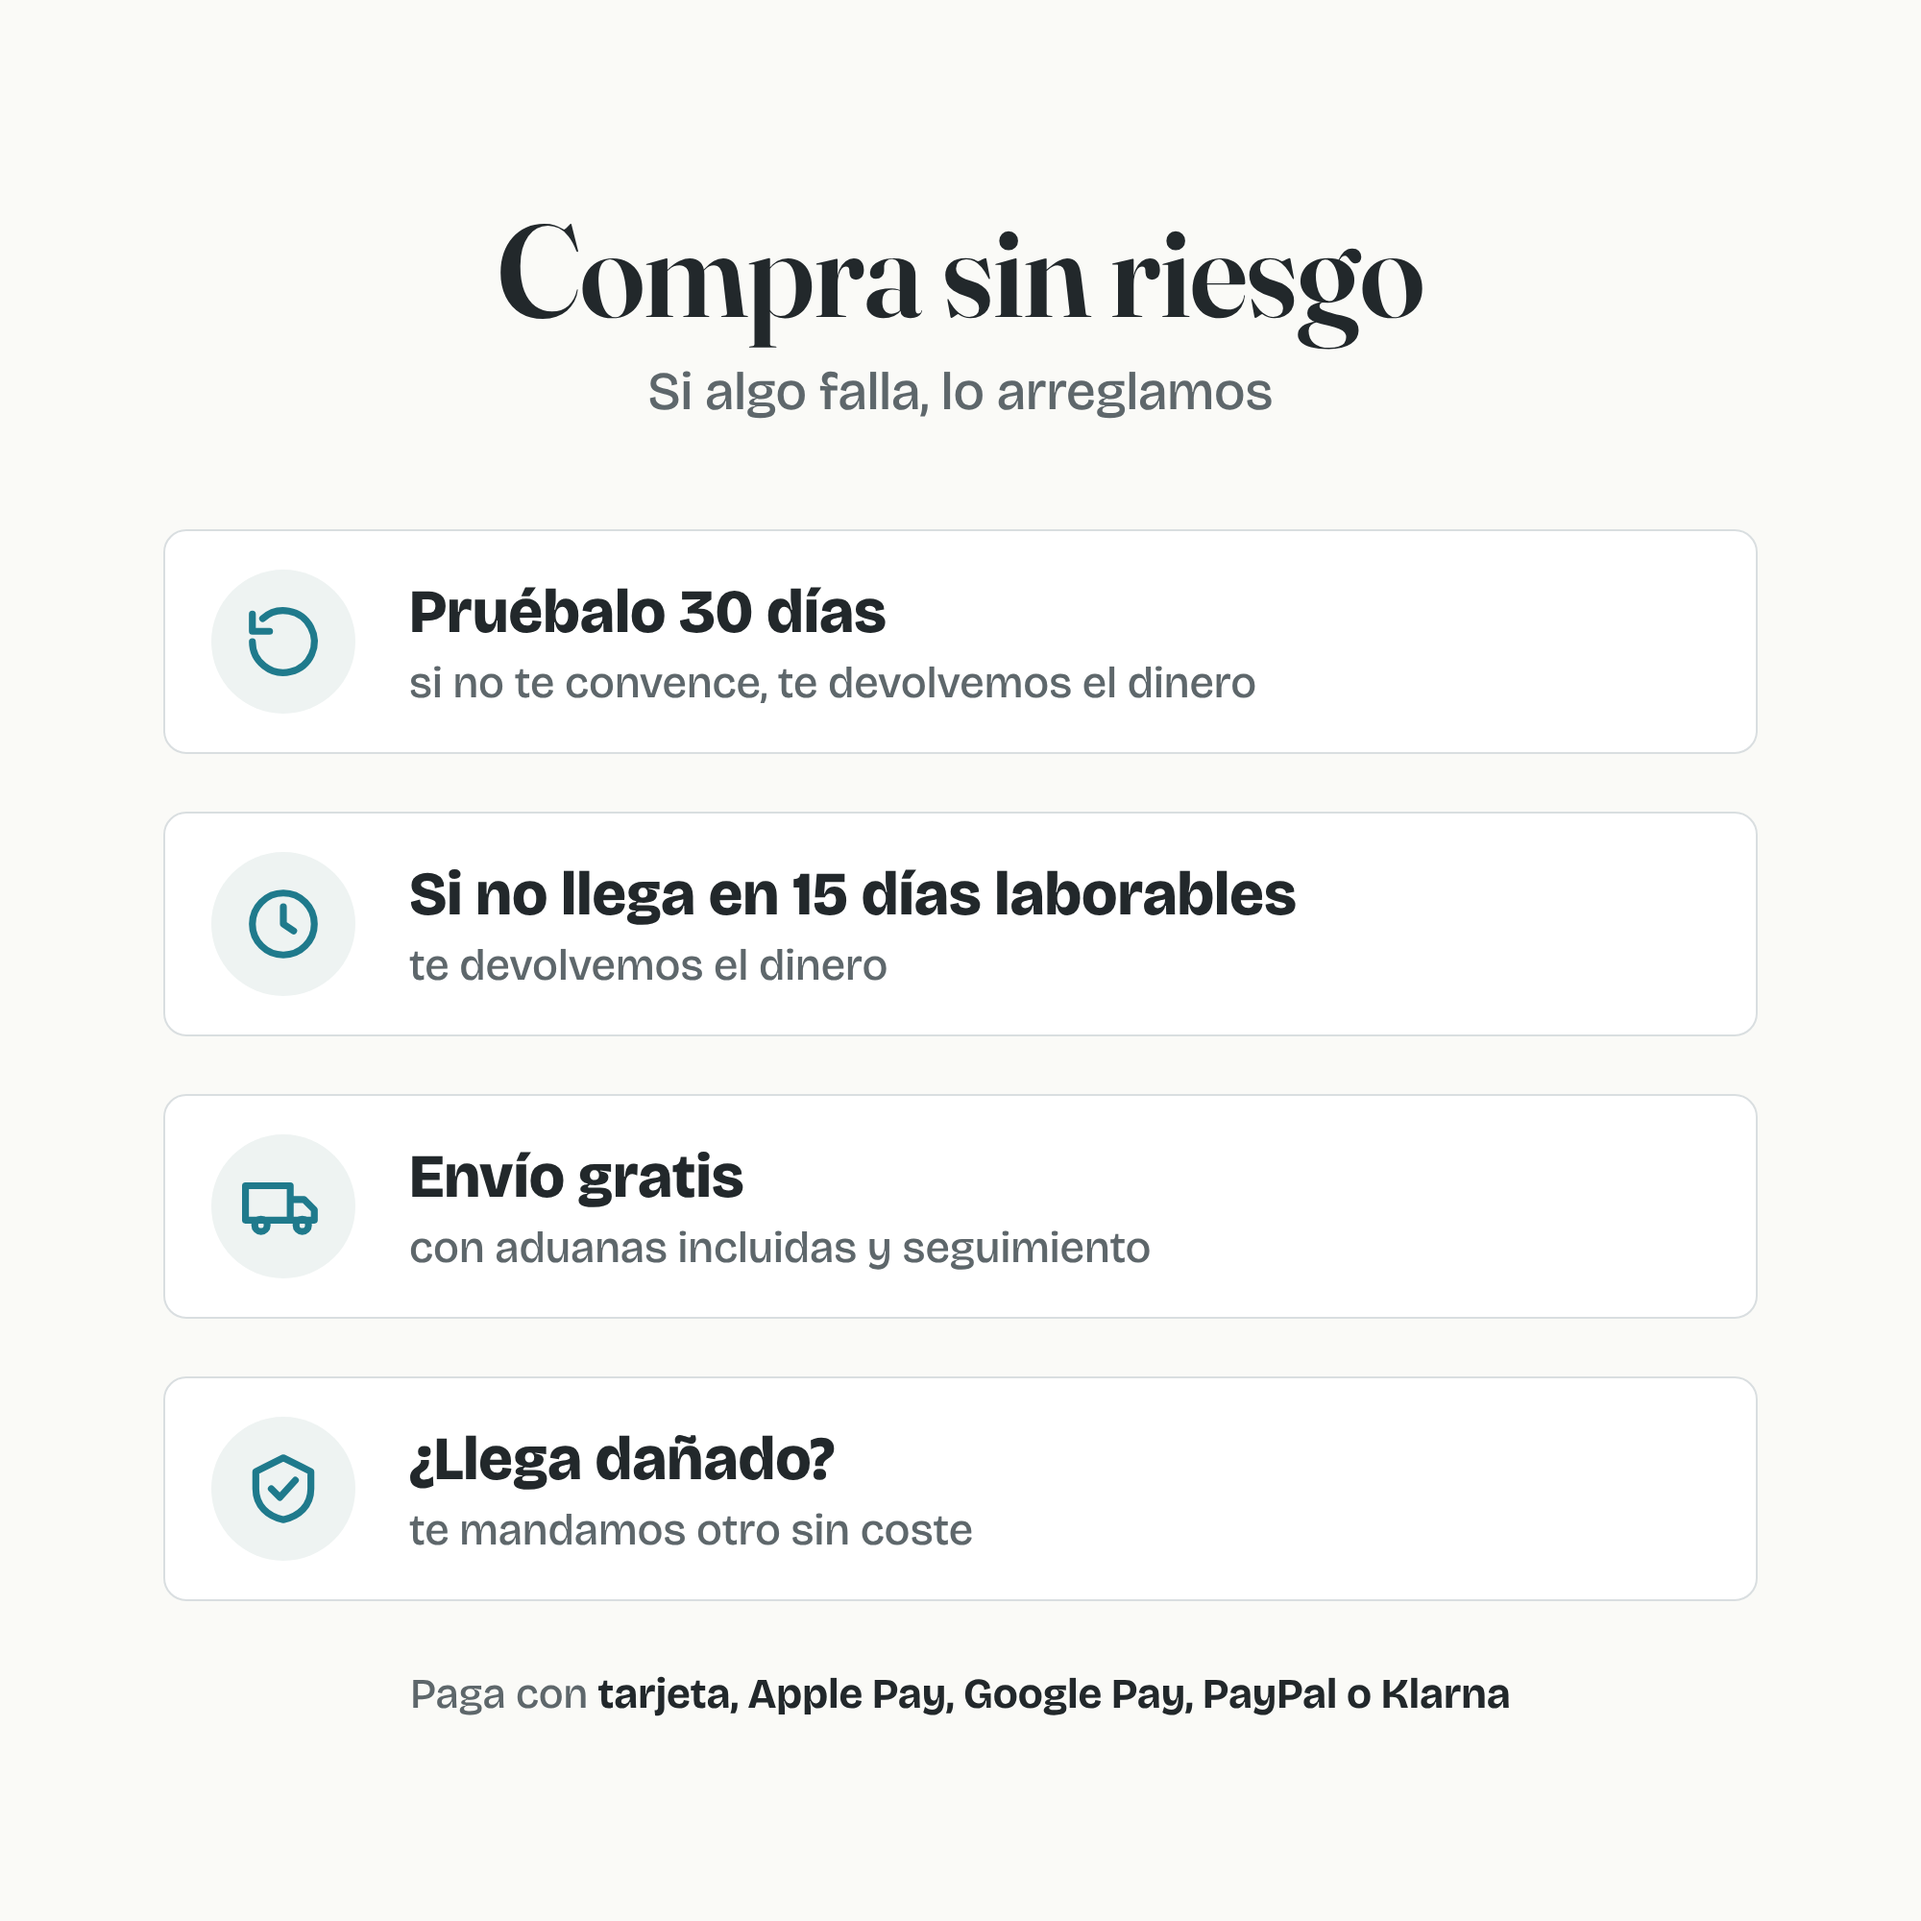
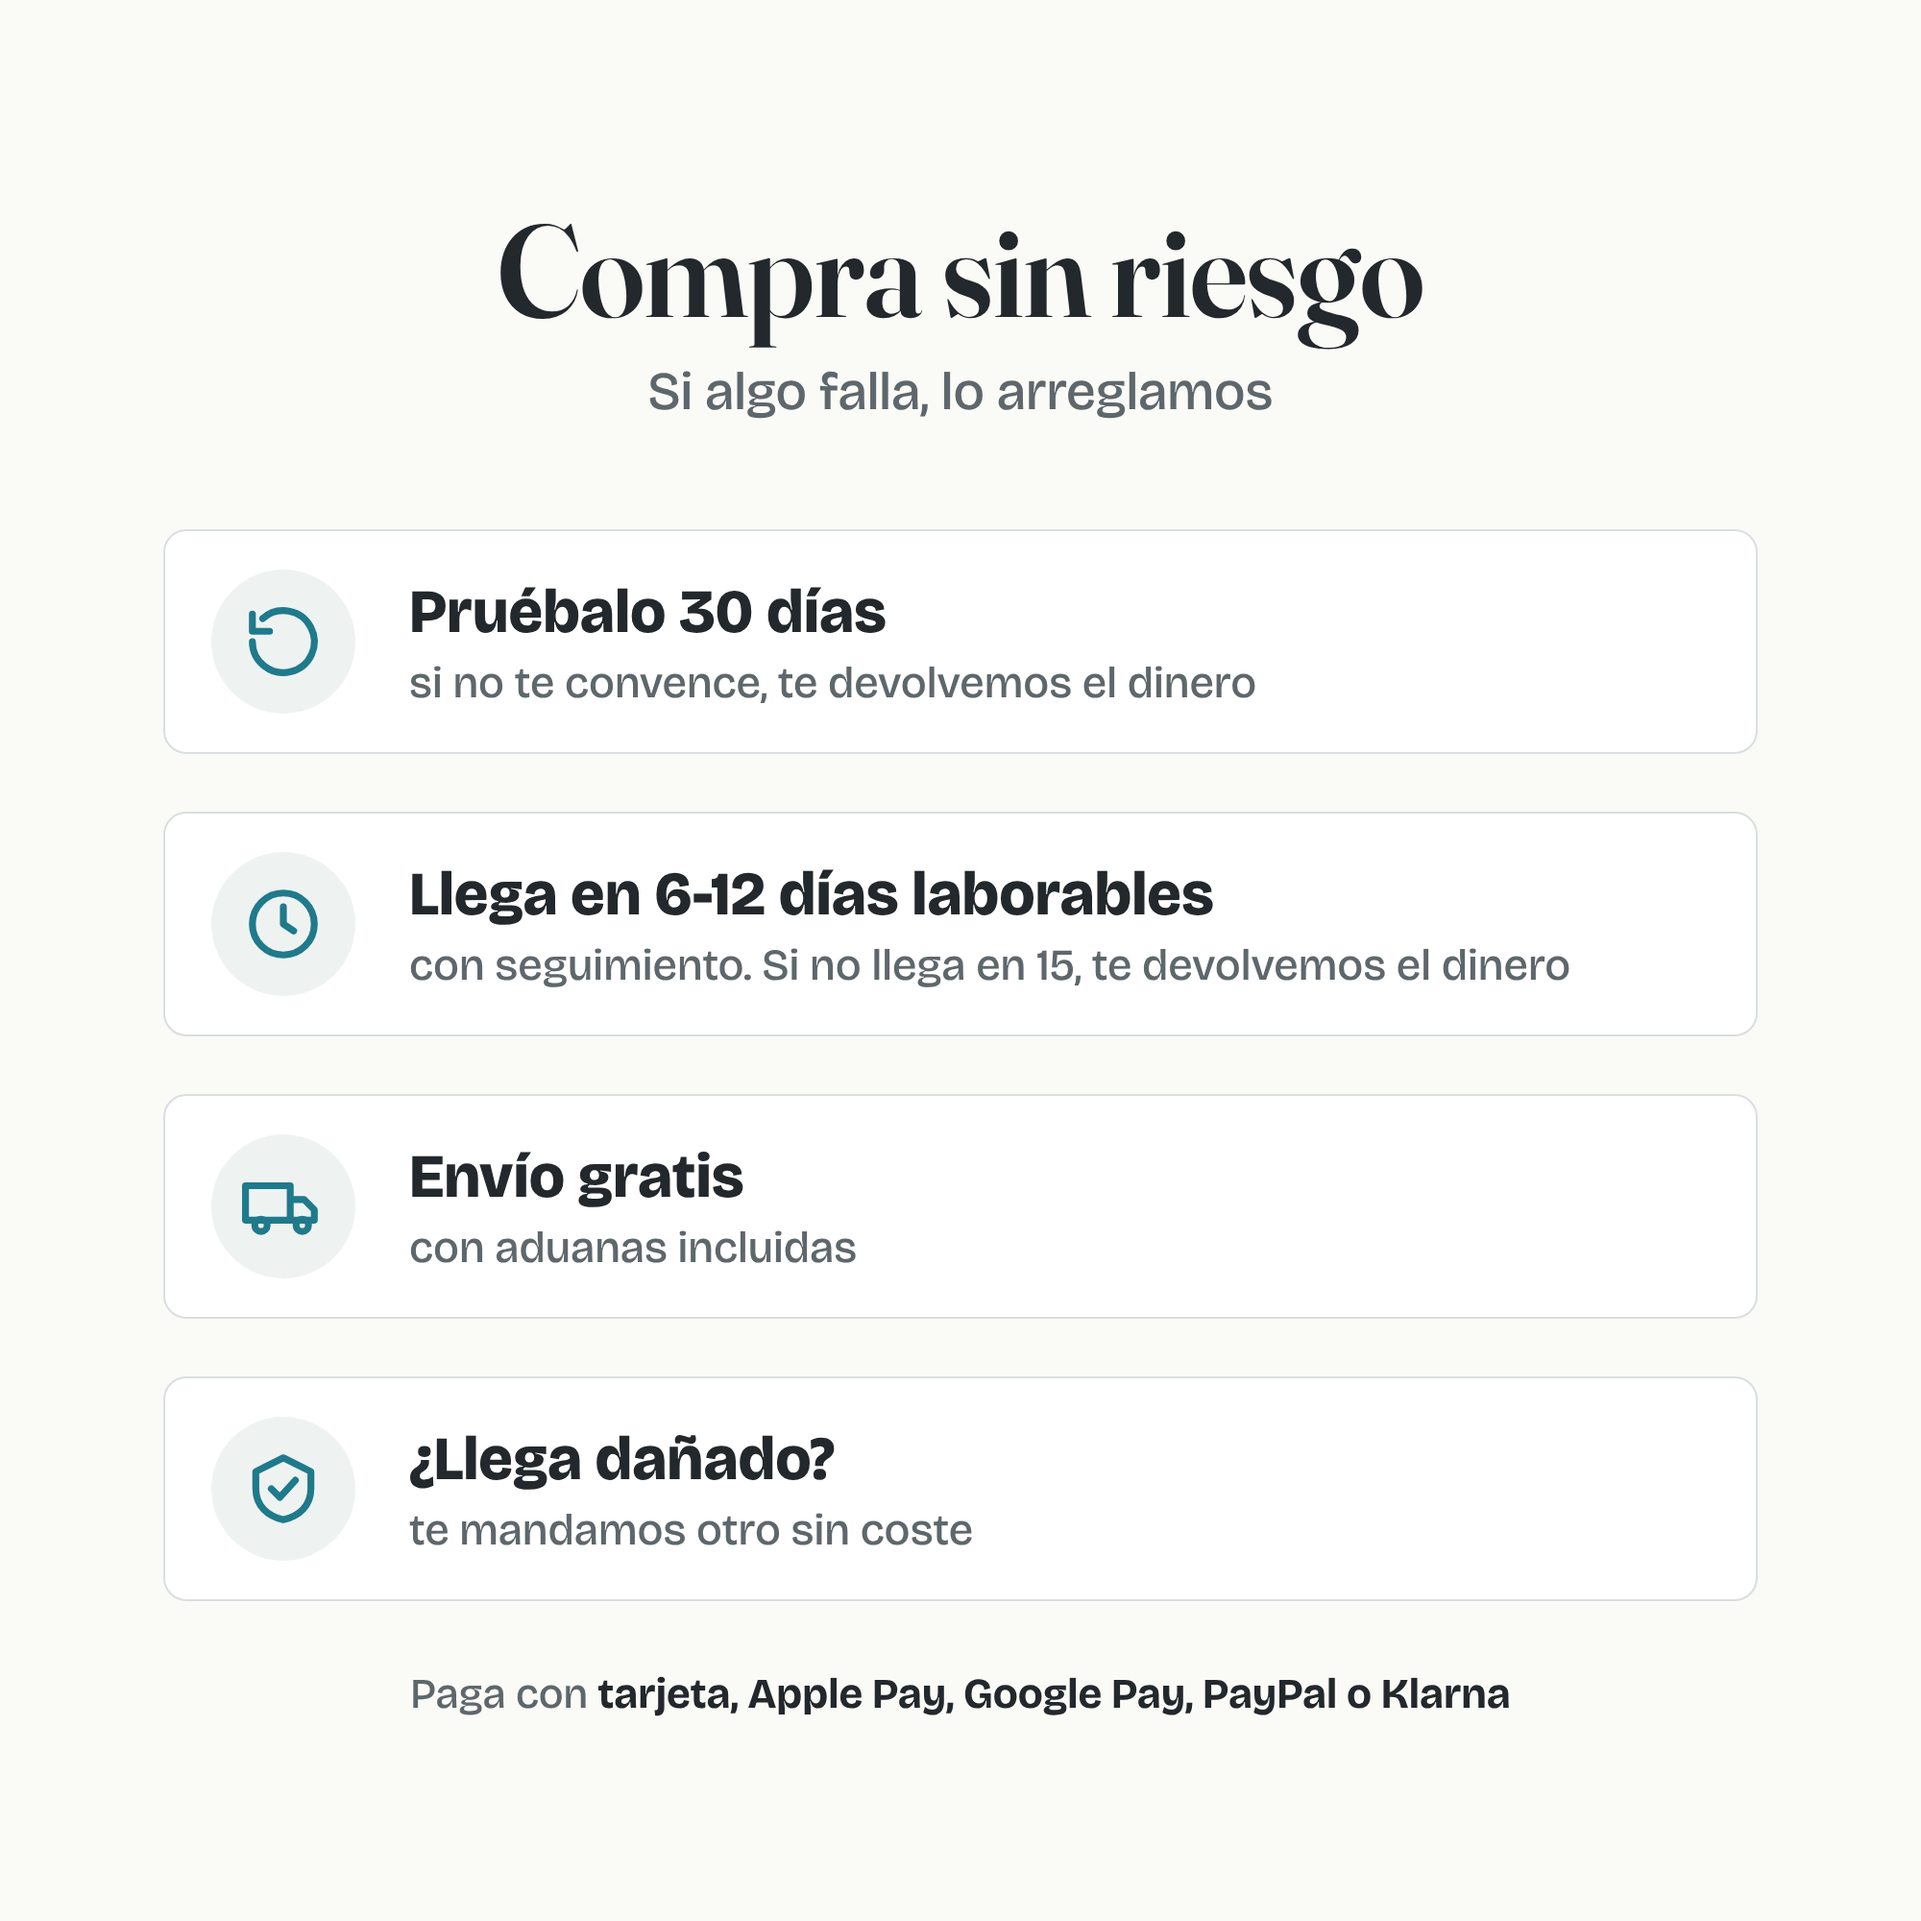
Trebolly: el plazo real como titular y la garantía de 15 días como red
Claude-Session: https://claude.ai/code/session_01MFmWWnySTJ6TCauxvHwczb

Changed region(s): [[0.217, 0.434, 0.806, 0.527], [0.496, 0.62, 0.589, 0.682]]

diff --git a/trebolly/graficas/09-garantias-30dias.html b/trebolly/graficas/09-garantias-30dias.html
@@ -16,8 +16,8 @@ p.sub{font-size:56px;color:var(--gris);margin-top:22px;font-weight:500}
 <p class="sub">Si algo falla, lo arreglamos</p>
 <div class="lista">
 <div class="item"><div class="ico"><svg viewBox="0 0 24 24"><path d="M3 12a9 9 0 1 0 3-6.7"/><path d="M3 4v5h5"/></svg></div><div class="t"><b>Pruébalo 30 días</b><span>si no te convence, te devolvemos el dinero</span></div></div>
-<div class="item"><div class="ico"><svg viewBox="0 0 24 24"><circle cx="12" cy="12" r="9"/><path d="M12 7v5l3 2"/></svg></div><div class="t"><b>Si no llega en 15 días laborables</b><span>te devolvemos el dinero</span></div></div>
-<div class="item"><div class="ico"><svg viewBox="0 0 24 24"><path d="M1 6h13v10H1zM14 10h4l3 3v3h-7"/><circle cx="5.5" cy="17.5" r="1.8"/><circle cx="17.5" cy="17.5" r="1.8"/></svg></div><div class="t"><b>Envío gratis</b><span>con aduanas incluidas y seguimiento</span></div></div>
+<div class="item"><div class="ico"><svg viewBox="0 0 24 24"><circle cx="12" cy="12" r="9"/><path d="M12 7v5l3 2"/></svg></div><div class="t"><b>Llega en 6-12 días laborables</b><span>con seguimiento. Si no llega en 15, te devolvemos el dinero</span></div></div>
+<div class="item"><div class="ico"><svg viewBox="0 0 24 24"><path d="M1 6h13v10H1zM14 10h4l3 3v3h-7"/><circle cx="5.5" cy="17.5" r="1.8"/><circle cx="17.5" cy="17.5" r="1.8"/></svg></div><div class="t"><b>Envío gratis</b><span>con aduanas incluidas</span></div></div>
 <div class="item"><div class="ico"><svg viewBox="0 0 24 24"><path d="M12 3l8 4v5c0 5-3.5 8-8 9-4.5-1-8-4-8-9V7z"/><path d="M8.5 12l2.5 2.5 4.5-5"/></svg></div><div class="t"><b>¿Llega dañado?</b><span>te mandamos otro sin coste</span></div></div>
 </div>
 <p class="pago">Paga con <b>tarjeta, Apple Pay, Google Pay, PayPal o Klarna</b></p>

diff --git a/trebolly/graficas/09-garantias.html b/trebolly/graficas/09-garantias.html
@@ -15,8 +15,8 @@ p.sub{font-size:56px;color:var(--gris);margin-top:22px;font-weight:500}
 <h1>Compra sin riesgo</h1>
 <p class="sub">Si algo falla, lo arreglamos</p>
 <div class="lista">
-<div class="item"><div class="ico"><svg viewBox="0 0 24 24"><path d="M1 6h13v10H1zM14 10h4l3 3v3h-7"/><circle cx="5.5" cy="17.5" r="1.8"/><circle cx="17.5" cy="17.5" r="1.8"/></svg></div><div class="t"><b>Envío gratis</b><span>con aduanas incluidas y seguimiento</span></div></div>
-<div class="item"><div class="ico"><svg viewBox="0 0 24 24"><circle cx="12" cy="12" r="9"/><path d="M12 7v5l3 2"/></svg></div><div class="t"><b>Si no llega en 15 días laborables</b><span>te devolvemos el dinero</span></div></div>
+<div class="item"><div class="ico"><svg viewBox="0 0 24 24"><path d="M1 6h13v10H1zM14 10h4l3 3v3h-7"/><circle cx="5.5" cy="17.5" r="1.8"/><circle cx="17.5" cy="17.5" r="1.8"/></svg></div><div class="t"><b>Envío gratis</b><span>con aduanas incluidas</span></div></div>
+<div class="item"><div class="ico"><svg viewBox="0 0 24 24"><circle cx="12" cy="12" r="9"/><path d="M12 7v5l3 2"/></svg></div><div class="t"><b>Llega en 6-12 días laborables</b><span>con seguimiento. Si no llega en 15, te devolvemos el dinero</span></div></div>
 <div class="item"><div class="ico"><svg viewBox="0 0 24 24"><path d="M3 12a9 9 0 1 0 3-6.7"/><path d="M3 4v5h5"/></svg></div><div class="t"><b>14 días para devolverlo</b><span>desde que lo recibes, sin dar explicaciones</span></div></div>
 <div class="item"><div class="ico"><svg viewBox="0 0 24 24"><path d="M12 3l8 4v5c0 5-3.5 8-8 9-4.5-1-8-4-8-9V7z"/><path d="M8.5 12l2.5 2.5 4.5-5"/></svg></div><div class="t"><b>¿Llega dañado?</b><span>te mandamos otro sin coste</span></div></div>
 </div>

diff --git a/trebolly/revision-competencia-ficha.md b/trebolly/revision-competencia-ficha.md
@@ -141,3 +141,9 @@ No se toca la tienda hasta que decidan los fundadores. De ARZ Urus no hay notas 
    - "Spray, Rainfall" respalda la foto M (chorro en lluvia) como foto principal.
    - Si se quiere, "dos tipos de chorro: lluvia y spray", sin decir cómo se cambia. Es el mismo nivel de apoyo que "menos cloro".
 5. **Gráfica 10:** preparada la versión con 30 días (`graficas/09-garantias-30dias.html`). La garantía de 30 días va primero y la de plazo, segunda. Se usa solo si se aprueba P4.
+
+**Ajuste de Fran (18-nov) a la garantía de plazo:** poner "15 días laborables" como titular queda feo, porque lo primero que lee el cliente es un plazo largo. Cambio:
+- Titular con el plazo real: "Llega en 6-12 días laborables".
+- Debajo, la garantía como red de seguridad: "con seguimiento. Si no llega en 15, te devolvemos el dinero".
+- En la tarjeta de envío queda solo "con aduanas incluidas", porque el seguimiento ya aparece en la del plazo.
+- Hecho en las dos versiones de la gráfica 10.
